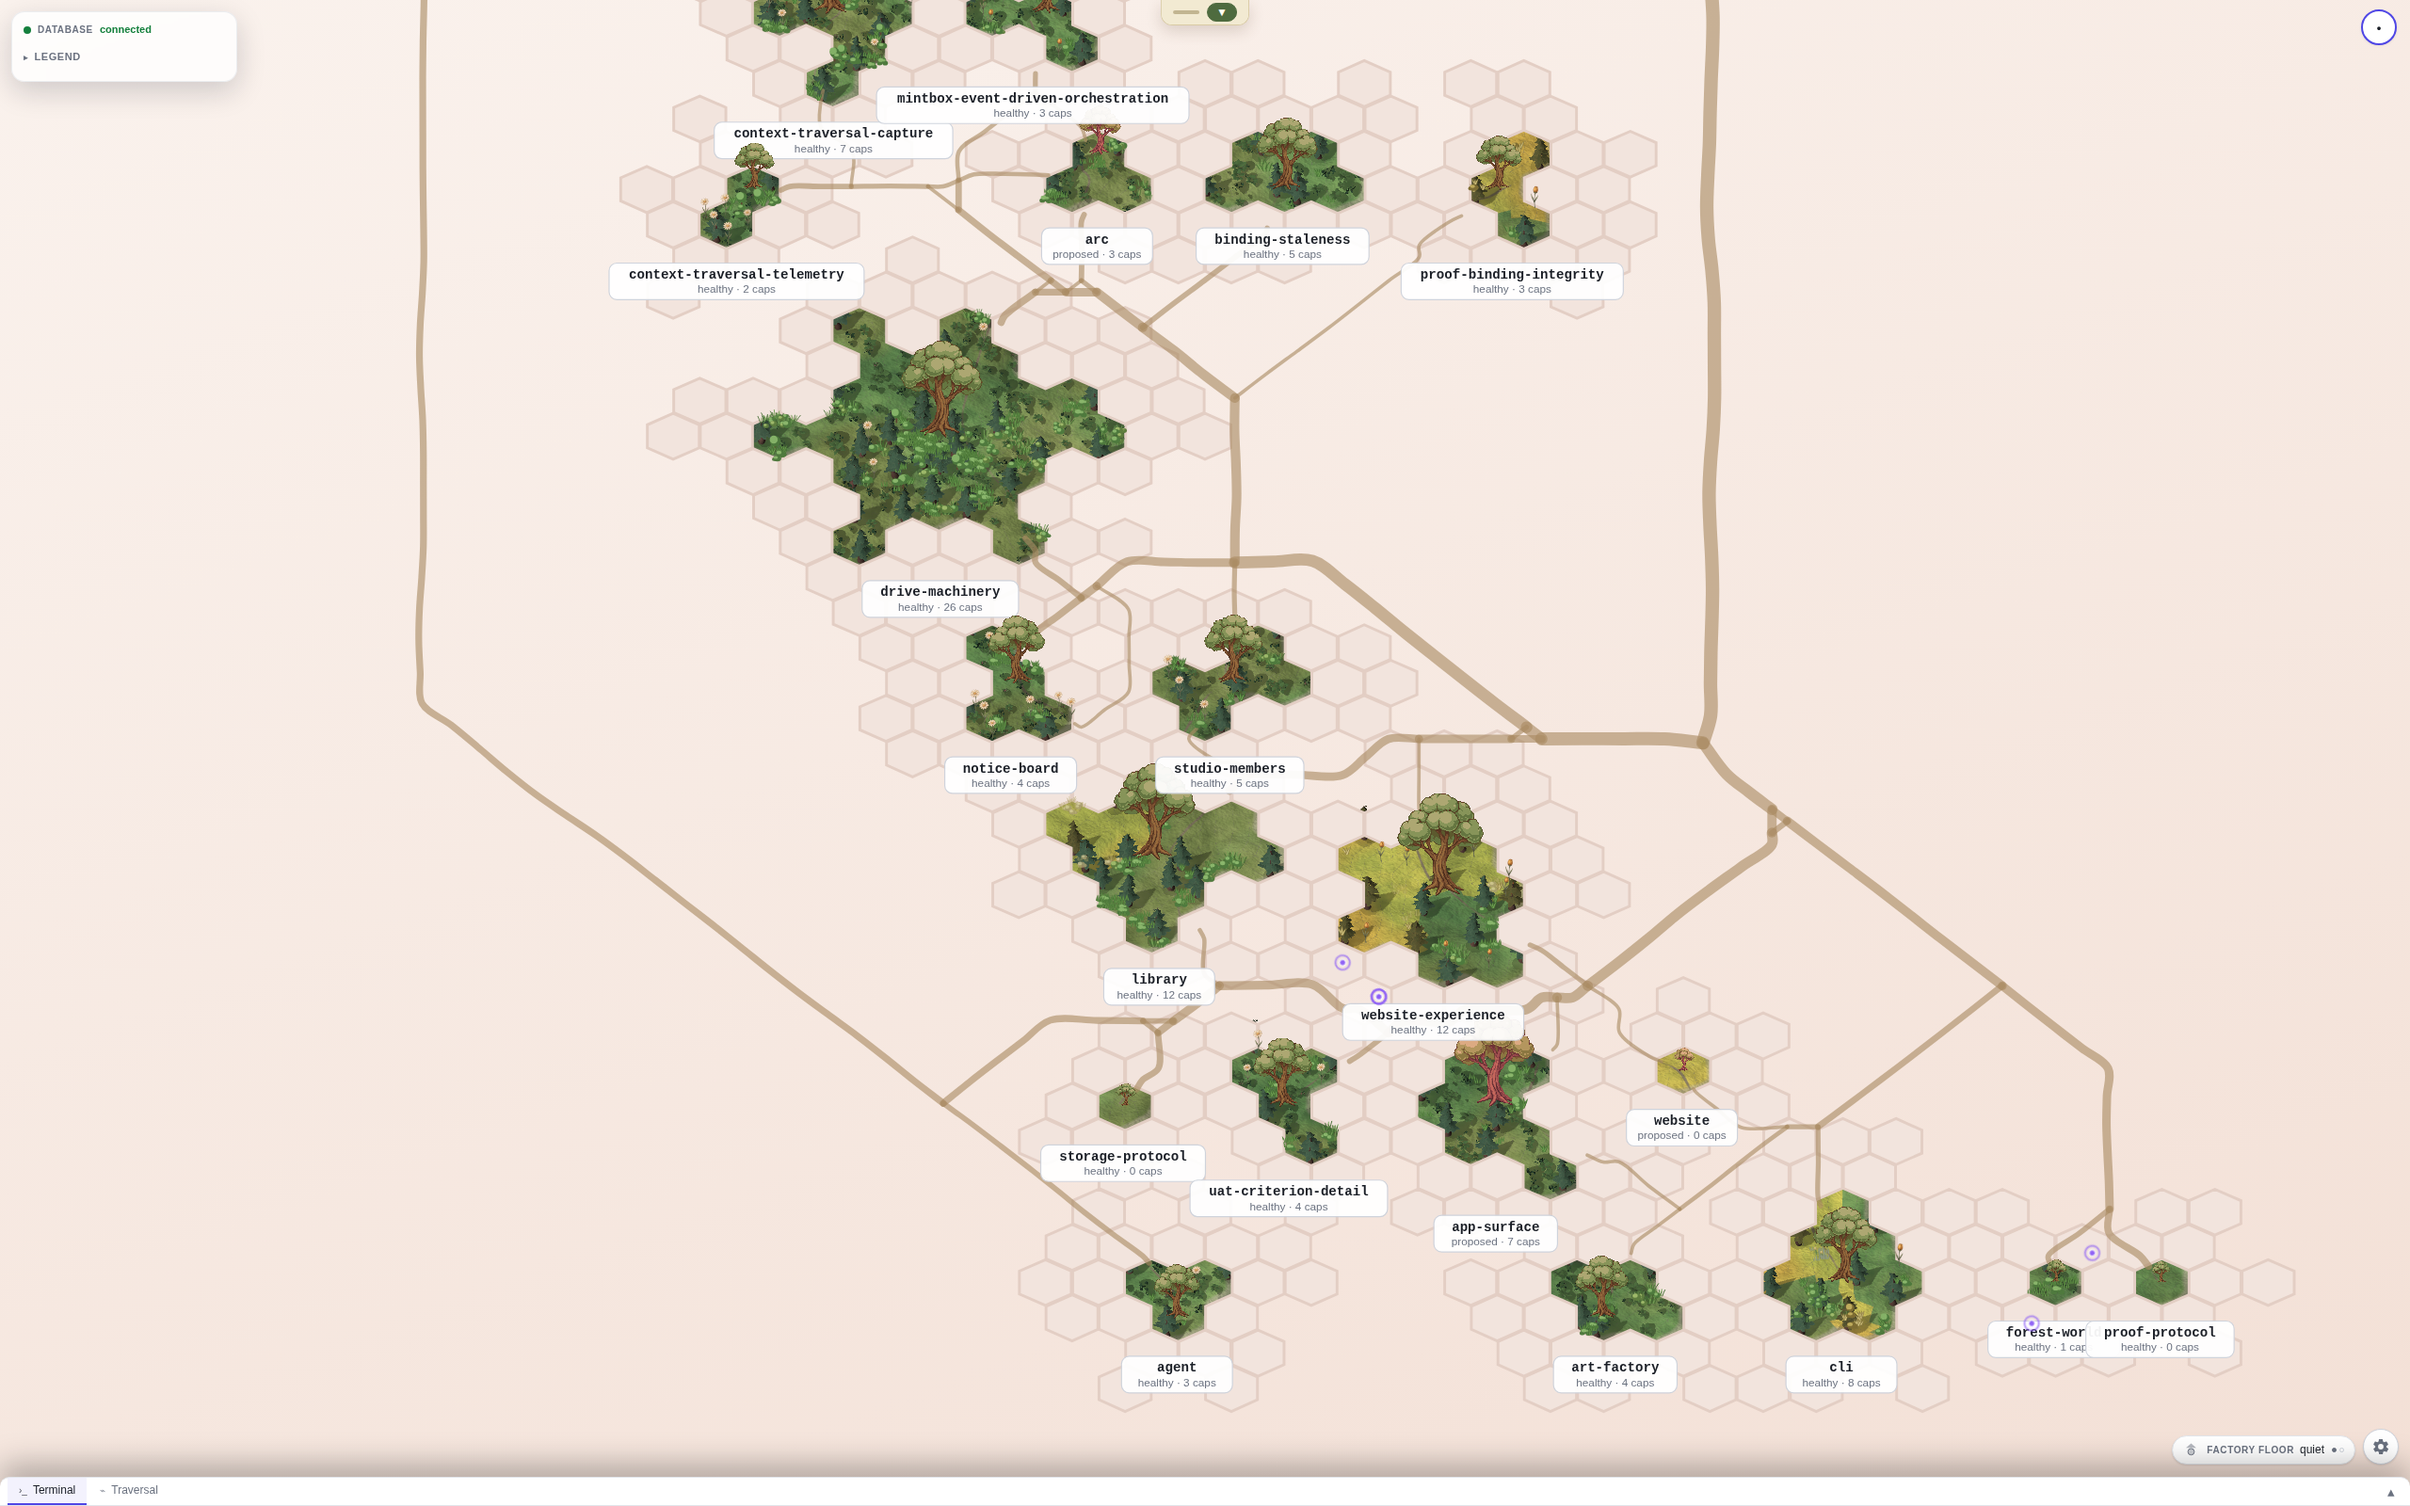
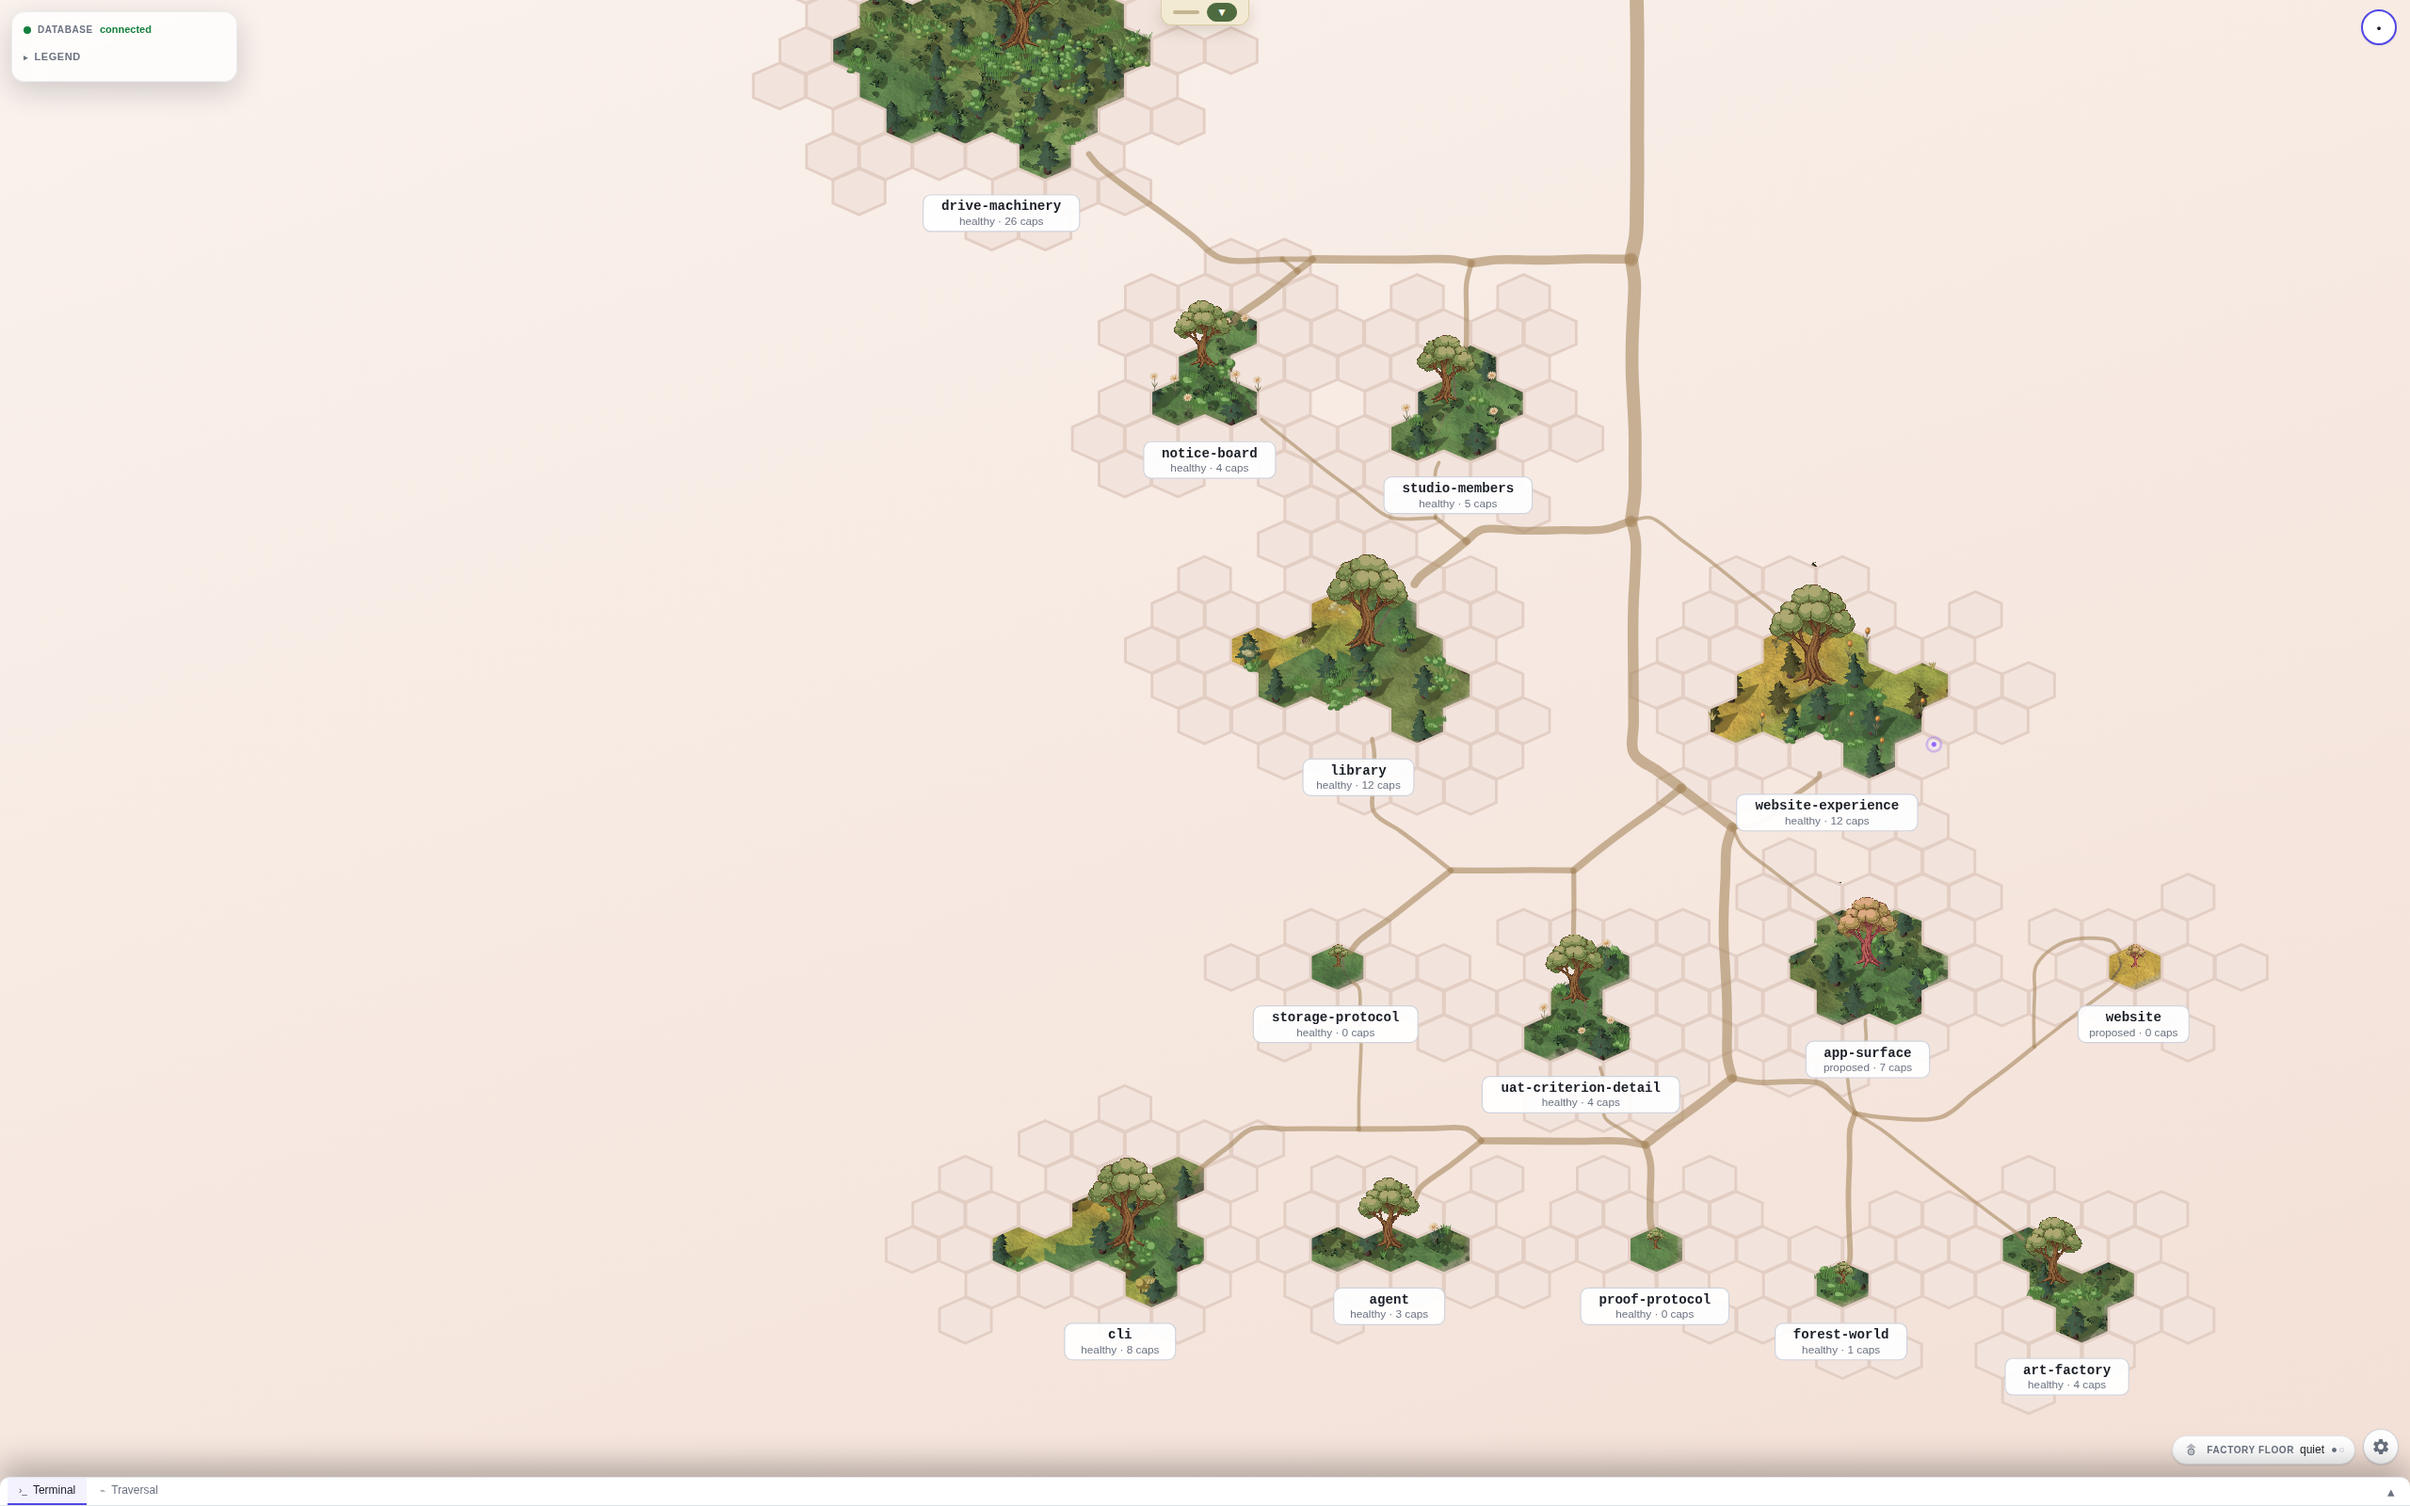
chore: merge origin/main (lanes D and E landed) and re-take the mount evidence
Both sibling lanes landed while this branch was building: #2027 re-derived
the map's spacing so nameplates stop overlapping, and #2026 draws every
acceptance criterion (unsigned ones as unopened buds, ADR-0600). The map
this mount sits under therefore moved twice today.

Re-took all three arms against the merged tree. The registration held
across the layout change with no change to this branch, which is the
property that matters: `registrationCamera` solves from the studio's own
camera, so it is independent of where the islands sit. The README now
names which map the pictures are of.

diff --git a/docs/research/land-under-the-map-2026-09-23/README.md b/docs/research/land-under-the-map-2026-09-23/README.md
@@ -5,10 +5,20 @@ Evidence for `the-land-sits-under-the-working-map` on `mount-the-land-on-a-real-
 flag this increment added.
 
 **Taken on:** the Mint box (RTX 2060), headless Chromium, 2560x1600, against the studio dev server
-at HEAD `5c0632f6` on `claude/lane-f-the-mount`, live Cloud SQL store (`store: pg, db: ok`, 47
-stories). The capture driver proves the server's `code.directory` names THIS worktree before it
-opens a page and refuses otherwise — this box runs several worktrees at once, and a sibling's server
-answering the port would otherwise be filed as this branch's evidence.
+at HEAD `9cb2bd2a` on `claude/lane-f-the-mount`, live Cloud SQL store (`store: pg, db: ok`, 47
+stories). The capture driver proves the server's `code.directory` names THIS worktree, and that its
+`code.stale` is false, before it opens a page — this box runs several worktrees at once, and a
+sibling's server (or this tree's own server still holding pre-merge code) would otherwise be filed
+as this branch's evidence.
+
+⚠ **WHICH MAP THESE PICTURES ARE OF, because it changed twice today.** They are taken AFTER both
+sibling lanes landed: PR #2027 (`lane-d`, the map's spacing re-derived so nameplates stop
+overlapping) and PR #2026 (`lane-e`, every acceptance criterion drawn, unsigned ones as unopened
+buds — ADR-0600). So the islands sit at the new spacing and carry the new buds, and the land is
+registered under both. An earlier set of these arms was taken against the pre-merge layout and
+discarded; the registration held across the layout change without any change to this branch, which
+is the property that matters — `registrationCamera` solves from the studio's own camera, so it is
+independent of where the islands happen to sit.
 
 **Instrument:** `apps/studio/scripts/capture-land-mount.mjs`.
 
